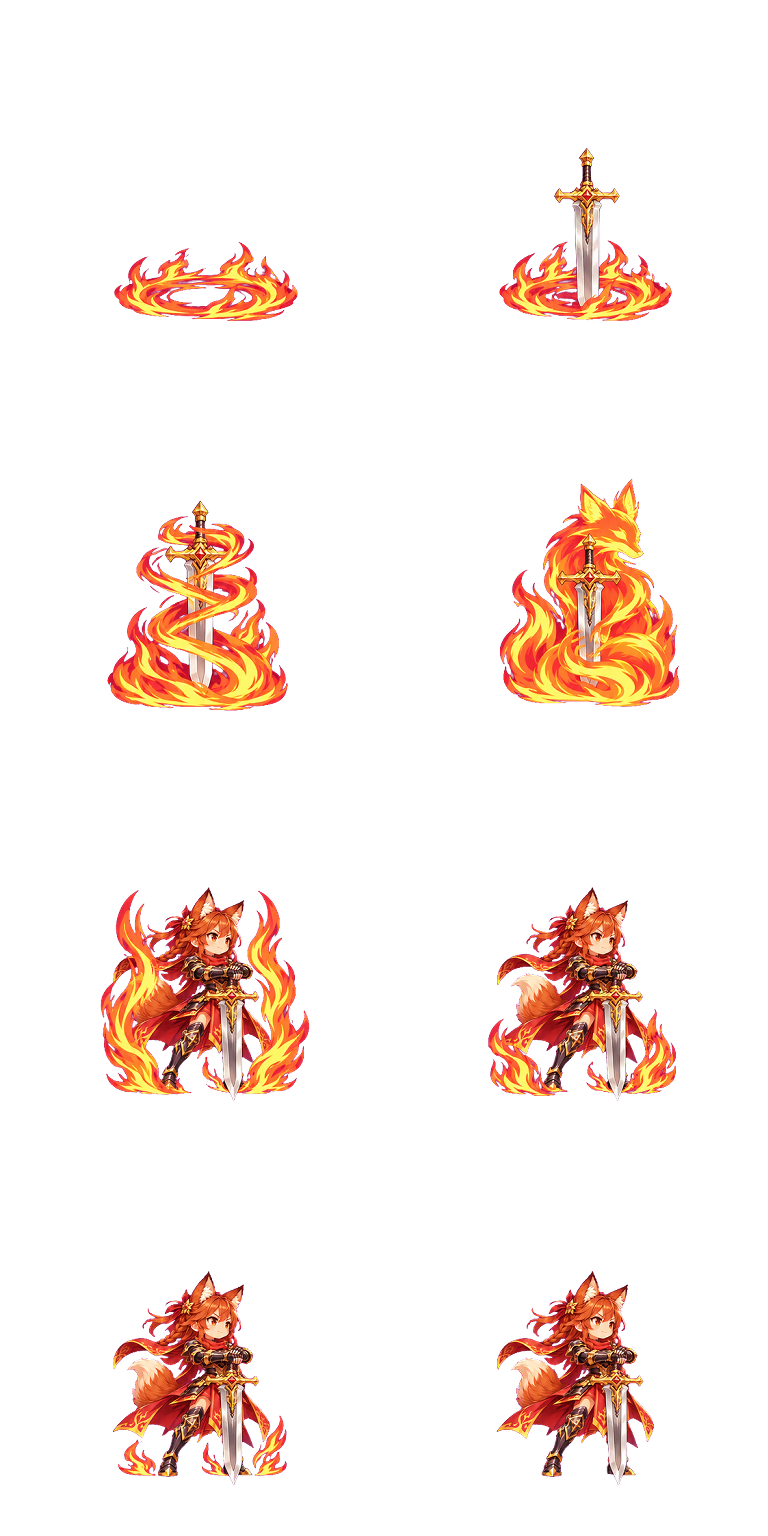
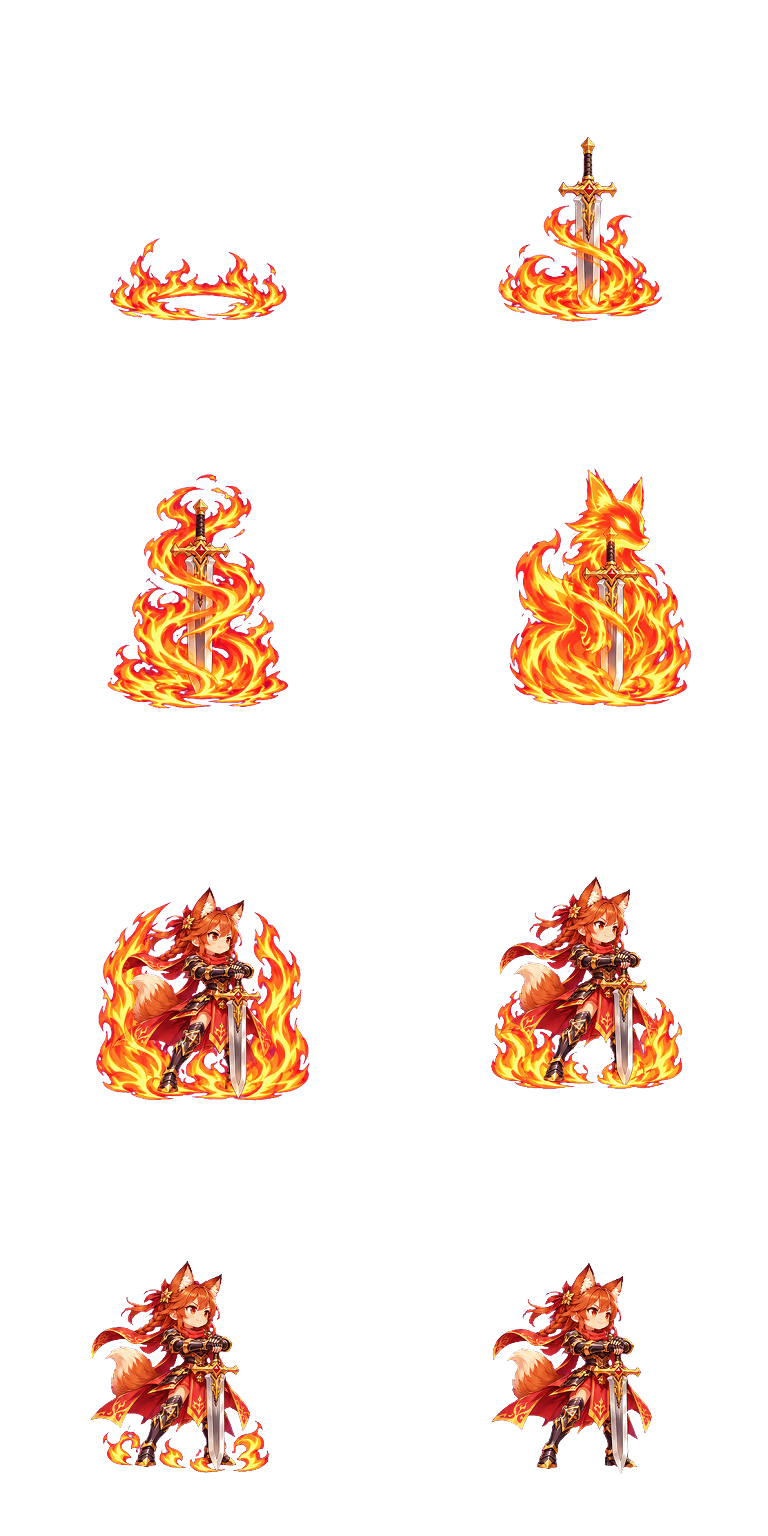
art(mika): astra-high redos: one smooth moon-glaive circle with a fire arc, the fox tail visible in the form-2 entrance, calmer cloth in the form 1-2 showcase loops

diff --git a/assets/heroes/forms/fire/tools/compcut.py b/assets/heroes/forms/fire/tools/compcut.py
@@ -1,0 +1,62 @@
+"""Workaround for fidget.py proc when Codex lets a frame run over its grid line into the next cell
+(a long weapon or a fire arc): each opaque part of the sheet is given to the cell holding its
+centre, every frame is cut on a padded square (cell + pad) so its overhang is kept, then the same
+stabilize_idle.py step as fidget.py proc runs (same flags), and fidget.webp is written for accept.
+usage: python compcut.py <cid> <name> [--pad=0.12] [--cell=384] [--fill=.55] [extra stabilize flags...]"""
+import json, subprocess, sys
+from pathlib import Path
+import numpy as np
+from PIL import Image
+from scipy import ndimage
+ROOT = Path("D:/Project/Gemwoven")
+sys.path.insert(0, str(ROOT / "assets/gemwoven/elites"))
+import fidget  # noqa
+cid, name, *rest = sys.argv[1:]
+opt = {r.split("=")[0]: r.split("=")[1] for r in rest if r.startswith("--") and "=" in r and r.split("=")[0] in ("--pad", "--cell", "--fill")}
+splice = [tuple(map(int, r.split("=")[1].split(":"))) for r in rest if r.startswith("--splice=")]   # --splice=4:3 places frame 4 exactly like frame 3 (same template row)
+extra = [r for r in rest if r.split("=")[0] not in ("--pad", "--cell", "--fill", "--splice")]
+pad_r = float(opt.get("--pad", .12)); cell = int(opt.get("--cell", 384)); fill = float(opt.get("--fill", .55))
+d = fidget.WORK / cid.replace("/", "_") / name
+s = np.asarray(Image.open(d / "raw.png").convert("RGB"), dtype=np.float32)
+H, W = s.shape[:2]; h, w = H // 4, W // 2
+r, g, b = s[..., 0], s[..., 1], s[..., 2]
+key = np.minimum(r, b) - g
+alpha = np.clip(1 - (key - 60) / 90, 0, 1)
+spill = np.clip(key / 255, 0, 1)
+s[..., 0] = np.where(key > 0, np.minimum(r, g + (r - g) * (1 - spill)), r)
+s[..., 2] = np.where(key > 0, np.minimum(b, g + (b - g) * (1 - spill)), b)
+labels, n = ndimage.label(ndimage.binary_dilation(alpha > .05, iterations=2))
+owner = np.zeros(n + 1, dtype=int) - 1
+for i, c in enumerate(ndimage.center_of_mass(alpha > .05, labels, range(1, n + 1))):
+    if not np.isnan(c[0]):
+        owner[i + 1] = min(3, int(c[0] // h)) * 2 + min(1, int(c[1] // w))
+pad = int(w * pad_r)
+(d / "cells").mkdir(exist_ok=True)
+for i in range(8):
+    mine = owner[labels] == i
+    a = np.where(mine, alpha, 0)
+    rgba = np.concatenate([s, a[..., None] * 255], -1).clip(0, 255).astype("uint8")
+    y0, x0 = (i // 2) * h - pad, (i % 2) * w - pad
+    canvas = np.zeros((h + 2 * pad, w + 2 * pad, 4), dtype="uint8")
+    sy0, sx0 = max(0, y0), max(0, x0); sy1, sx1 = min(H, y0 + h + 2 * pad), min(W, x0 + w + 2 * pad)
+    canvas[sy0 - y0:sy1 - y0, sx0 - x0:sx1 - x0] = rgba[sy0:sy1, sx0:sx1]
+    edge = canvas[..., 3] > 128
+    print("frame", i + 1, "touches padded edge" if edge[:2].any() or edge[-2:].any() or edge[:, :2].any() or edge[:, -2:].any() else "ok")
+    Image.fromarray(canvas, "RGBA").resize((cell, cell), Image.Resampling.LANCZOS).save(d / "cells" / f"idle-{i + 1}.png")
+out = subprocess.run([sys.executable, str(fidget.HERE / "stabilize_idle.py"), str(fidget.master_of(cid)), str(d / "stable"), *[str(d / f"cells/idle-{i}.png") for i in range(1, 9)],
+                      "--core", "9999", "--same-transform", "--grow", "3", "--cell", str(cell), "--fill", str(fill), "--open", "1", "--min-area", "20", *extra], capture_output=True, text=True, cwd=ROOT)
+if out.returncode:
+    sys.exit(out.stderr)
+for bad, good in splice:
+    o = subprocess.run([sys.executable, str(fidget.HERE / "stabilize_idle.py"), str(fidget.master_of(cid)), str(d / "stable-splice"), str(d / f"cells/idle-{bad}.png"), str(d / f"cells/idle-{good}.png"),
+                        "--core", "9999", "--same-transform", "--no-refine", "--grow", "3", "--cell", str(cell), "--fill", str(fill), "--open", "1", "--min-area", "20", *extra], capture_output=True, text=True, cwd=ROOT)
+    if o.returncode:
+        sys.exit(o.stderr)
+    print("splice", bad, "like", good, [(f["dx"], f["dy"], f["scale"]) for f in json.loads((d / "stable-splice/stabilize-meta.json").read_text())["frames"]])
+    Image.open(d / "stable-splice/idle-1.png").save(d / f"stable/idle-{bad}.png")
+meta = json.loads((d / "stable/stabilize-meta.json").read_text())
+print([(f["dx"], f["dy"], f["scale"], f["error"]) for f in meta["frames"]], out.stdout.strip())
+sheet = Image.new("RGBA", (cell * 2, cell * 4), (0, 0, 0, 0))
+for i in range(8):
+    sheet.alpha_composite(Image.open(d / f"stable/idle-{i + 1}.png"), ((i % 2) * cell, (i // 2) * cell))
+sheet.save(d / "fidget.webp", lossless=True, method=6)

diff --git a/assets/heroes/forms/fire/tools/facelock.py b/assets/heroes/forms/fire/tools/facelock.py
@@ -1,0 +1,33 @@
+"""Keep a hero's face rigid in a showcase idle (the pipeline's rule: rigid parts come from the master).
+A face that looks toward the silhouette edge lies inside the --core band, so the stabilizer takes it from
+the drawing and it boils. This pastes the placed master back inside a feathered ellipse over the face.
+usage: python facelock.py <showcase dir> <name> cx cy rx ry [--cell=384 --fill=.55]   (cell px)
+Rewrites .build-cache/fidgets/<dir>/<name>/fidget.webp (run accept afterwards)."""
+import sys
+from pathlib import Path
+import numpy as np
+from PIL import Image, ImageFilter
+ROOT = Path("D:/Project/Gemwoven")
+sys.path.insert(0, str(ROOT / "assets/gemwoven/elites"))
+from stabilize_idle import fit_master  # noqa
+rel, name, cx, cy, rx, ry, *rest = sys.argv[1:]
+cx, cy, rx, ry = map(float, (cx, cy, rx, ry))
+opt = {r.split("=")[0]: r.split("=")[1] for r in rest if "=" in r}
+cell = int(opt.get("--cell", 384)); fill = float(opt.get("--fill", .55))
+d = ROOT / ".build-cache/fidgets" / rel.replace("/", "_") / name
+master = fit_master(ROOT / rel / "master.png", cell, fill)
+yy, xx = np.mgrid[:cell, :cell]
+mask = (((xx - cx) / rx) ** 2 + ((yy - cy) / ry) ** 2 <= 1).astype("uint8") * 255
+w = np.asarray(Image.fromarray(mask).filter(ImageFilter.GaussianBlur(3)), dtype=np.float32)[..., None] / 255
+pm = lambda a: np.concatenate([a[..., :3] * a[..., 3:], a[..., 3:]], -1)
+sheet = Image.open(d / "fidget.webp").convert("RGBA")
+out = Image.new("RGBA", sheet.size, (0, 0, 0, 0))
+for i in range(8):
+    box = ((i % 2) * cell, (i // 2) * cell, (i % 2 + 1) * cell, (i // 2 + 1) * cell)
+    f = np.asarray(sheet.crop(box), dtype=np.float32) / 255
+    mixed = pm(master) * w + pm(f) * (1 - w)
+    a = mixed[..., 3:]
+    col = np.where(a > 1e-4, mixed[..., :3] / np.maximum(a, 1e-4), 0)
+    out.paste(Image.fromarray((np.concatenate([col, a], -1).clip(0, 1) * 255).astype("uint8"), "RGBA"), box[:2])
+out.save(d / "fidget.webp", lossless=True, method=6)
+print("face locked", rel, name)
